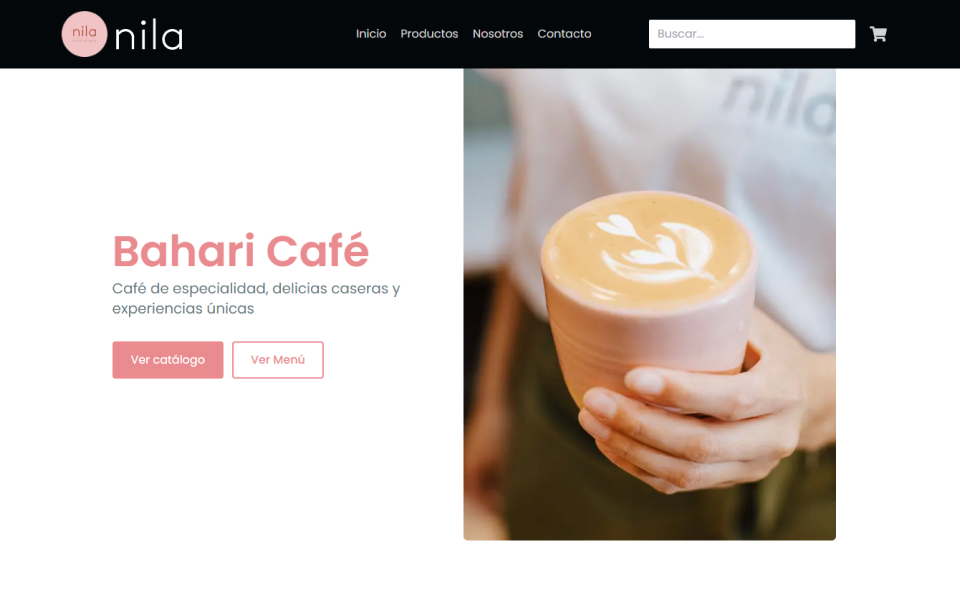
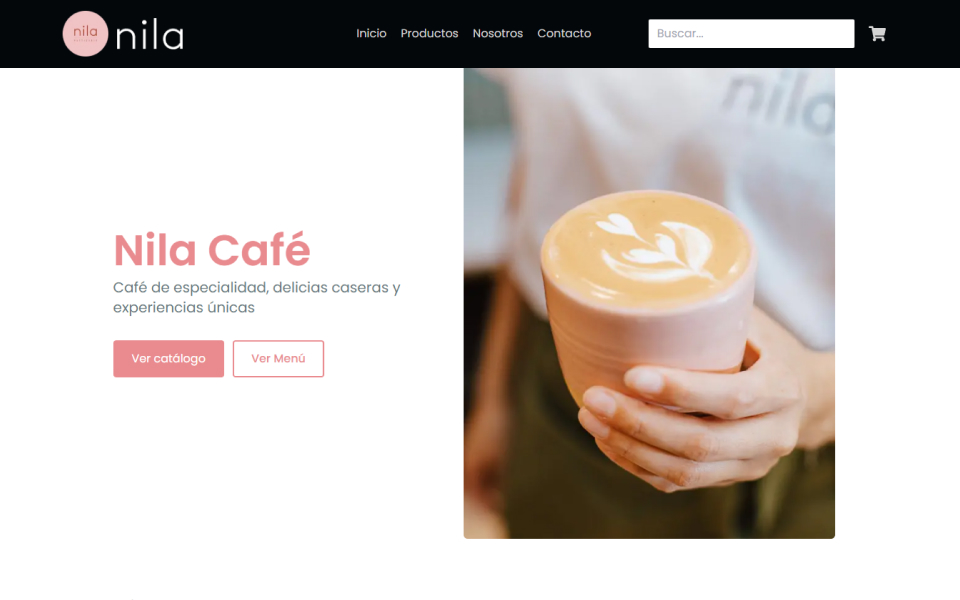
nila info

diff --git a/src/app/constants/constants.tsx b/src/app/constants/constants.tsx
@@ -1,35 +1,35 @@
 export const company = {
-  id: 'bahari-cafe',
-  name: 'Bahari Café',
-  adress: 'Emilio Zola 6230',
-  city: 'Wilde',
-  telephone: '1133310506',
+  id: 'nila-cafe',
+  name: 'Nila Café',
+  adress: 'Bonpland 2050',
+  city: 'Palermo',
+  telephone: '1164586165',
   email: null,
-  instagram: 'bahari.cafe',
+  instagram: 'nila.cafepalermo',
   facebook: null,
-  whatsapp: '1133310506',
+  whatsapp: '1164586165',
   googlemaps:
-    'https://www.google.com/maps/embed?pb=!1m18!1m12!1m3!1d209931.84510903273!2d-58.477555921874995!3d-34.7005115!2m3!1f0!2f0!3f0!3m2!1i1024!2i768!4f13.1!3m3!1m2!1s0x95a333df1a917311%3A0xcca181a9f215a774!2sBahari%20Caf%C3%A9%20de%20Especialidad!5e0!3m2!1ses-419!2sar!4v1728766207779!5m2!1ses-419!2sar',
-  menu: 'https://drive.google.com/file/d/1h6c_FfZzyoyFwuwKu5kf6GNDDLaYgR_8/view?fbclid=PAZXh0bgNhZW0CMTEAAaat7QZlklgTylZENTmdsn6X87LHUImt9re0-1Yh0xoo-LNRh40xBo9elvE_aem_oWnfbvrgnKIMnPxCNi7Lnw',
+    'https://www.google.com/maps/embed?pb=!1m18!1m12!1m3!1d13136.325727310772!2d-58.383853099999996!3d-34.6021023!2m3!1f0!2f0!3f0!3m2!1i1024!2i768!4f13.1!3m3!1m2!1s0x95bccb53a2d0429b%3A0x13bfcfa03f3e6b58!2sCaf%C3%A9%20Boheme%20-%20Caf%C3%A9%20de%20Especialidad!5e0!3m2!1sen!2sar!4v1728200216369!5m2!1sen!2sar',
+  menu: 'https://drive.google.com/file/d/1_7-ZI1Hg9PWMi7cPWdLoBkVd_EwzCX_t/view?fbclid=PAZXh0bgNhZW0CMTEAAaY-uN9X5_wjmlgIAxfeMa7MD40tdkLbFpdeJO6YVnL1t3wHG-UnAN0MyW8_aem_Jh_zZ0Dmd3tkqTmPKxdadg',
   openDays: [
-    { day: 'Lunes', hours: ['09:00 a 20:00'] },
-    { day: 'Martes', hours: ['09:00 a 20:00'] },
-    { day: 'Miércoles', hours: ['09:00 a 20:00'] },
-    { day: 'Jueves', hours: ['09:00 a 20:00'] },
-    { day: 'Viernes', hours: ['09:00 a 20:00'] },
+    { day: 'Lunes', hours: ['08:30 a 20:00'] },
+    // { day: 'Martes', hours: ['08:30 a 20:00'] },
+    { day: 'Miércoles', hours: ['08:30 a 20:00'] },
+    { day: 'Jueves', hours: ['08:30 a 20:00'] },
+    { day: 'Viernes', hours: ['08:30 a 20:00'] },
     { day: 'Sábado', hours: ['09:00 a 20:00'] },
-    { day: 'Domingo', hours: ['09:00 a 13:00'] },
+    { day: 'Domingo', hours: ['09:00 a 20:00'] },
   ],
   footer: 'Café de Especialidad, dedicación y pasión por lo que hacemos.',
 };
 
 export const nosotros = {
-  text: 'En Bahari Café, nos enorgullecemos de nuestra larga trayectoria con los más altos estándares de calidad. Con amplia experiencia en el rubro, nos hemos comprometido a brindar un ambiente ideal para que disfrutes de nuestra gastronomía con amigos y familiares.',
+  text: 'En Nila Café, nos enorgullecemos de nuestra larga trayectoria con los más altos estándares de calidad. Con amplia experiencia en el rubro, nos hemos comprometido a brindar un ambiente ideal para que disfrutes de nuestra gastronomía con amigos y familiares.',
 };
 
 export const metadataCompany = {
-  metadataBase: 'https://bahari-cafe.vercel.app/',
-  title: 'Bahari Café - Café de Especialidad',
+  metadataBase: 'https://nila-cafe.vercel.app/',
+  title: 'Nila Café - Café de Especialidad',
   description: 'Café de Especialidad, dedicación y pasión por lo que hacemos.',
 };
 

diff --git a/src/app/servicios/ServiciosSection.tsx b/src/app/servicios/ServiciosSection.tsx
@@ -24,7 +24,7 @@ const ServiciosSection = () => {
           viewport={{ margin: '0px 0px -300px 0px', once: true }}
           className='relative rounded overflow-hidden flex flex-col items-start md:flex-row md:items-center md:[box-shadow:0px_0px_19px_3px_rgba(0,0,0,0.1)]'
         >
-          <div className='px-5 md:px-10 py-8 sm:py-10 lg:py-16 max-w-[320px] sm:max-w-[350px] md:max-w-full md:w-[450px] lg:w-[600px] h-full bg-color-primary-dark/70 md:bg-color-bg-primary'>
+          <div className='px-5 md:px-10 py-8 sm:py-10 lg:py-16 max-w-[320px] sm:max-w-[350px] md:max-w-full md:w-[450px] lg:w-[600px] h-full bg-color-primary-dark/85 md:bg-color-bg-primary'>
             <div className='text-xl sm:text-2xl lg:text-4xl font-aleo-font font-semibold mb-1 sm:mb-2'>
               <h4 className='flex flex-col gap-1'>
                 <span className='text-color-title-light md:text-color-primary'>
@@ -70,7 +70,7 @@ const ServiciosSection = () => {
           viewport={{ margin: '0px 0px -300px 0px', once: true }}
           className='relative rounded overflow-hidden flex flex-col items-start md:flex-row md:items-center md:[box-shadow:0px_0px_19px_3px_rgba(0,0,0,0.1)]'
         >
-          <div className='px-5 md:px-10 py-8 sm:py-10 lg:py-16 max-w-[320px] sm:max-w-[350px] md:max-w-full md:w-[450px] lg:w-[600px] md:order-2 h-full bg-color-secondary-dark/70 md:bg-color-bg-primary'>
+          <div className='px-5 md:px-10 py-8 sm:py-10 lg:py-16 max-w-[320px] sm:max-w-[350px] md:max-w-full md:w-[450px] lg:w-[600px] md:order-2 h-full bg-color-secondary-dark/85 md:bg-color-bg-primary'>
             <div className='text-xl sm:text-2xl lg:text-4xl font-aleo-font font-semibold mb-1 sm:mb-2'>
               <h4 className='flex flex-col gap-1'>
                 <span className='text-color-title-light md:text-color-secondary'>
@@ -117,7 +117,7 @@ const ServiciosSection = () => {
           viewport={{ margin: '0px 0px -300px 0px', once: true }}
           className=' relative rounded overflow-hidden flex flex-col items-start md:flex-row md:items-center md:[box-shadow:0px_0px_19px_3px_rgba(0,0,0,0.1)]'
         >
-          <div className='px-5 md:px-10 py-8 sm:py-10 lg:py-16 max-w-[320px] sm:max-w-[350px] md:max-w-full md:w-[450px] lg:w-[600px] h-full bg-color-primary-dark/70 md:bg-color-bg-primary'>
+          <div className='px-5 md:px-10 py-8 sm:py-10 lg:py-16 max-w-[320px] sm:max-w-[350px] md:max-w-full md:w-[450px] lg:w-[600px] h-full bg-color-primary-dark/85 md:bg-color-bg-primary'>
             <div className='text-xl sm:text-2xl lg:text-4xl font-aleo-font font-semibold mb-1 sm:mb-2'>
               <h4 className='flex flex-col gap-1'>
                 <span className='text-color-title-light md:text-color-primary'>

diff --git a/tailwind.config.ts b/tailwind.config.ts
@@ -16,7 +16,7 @@ const config: Config = {
         'color-primary-dark': '#E07074',
         'color-primary-light': '#FFC7C9',
         'color-secondary': '#A4BAA4',
-        'color-secondary-dark': '#8DAC8D',
+        'color-secondary-dark': '#749C74',
         'color-secondary-light': '#C6DCC6',
         'color-tertiary': '#FCD369',
         'color-tertiary-dark': '#FBBB17',
